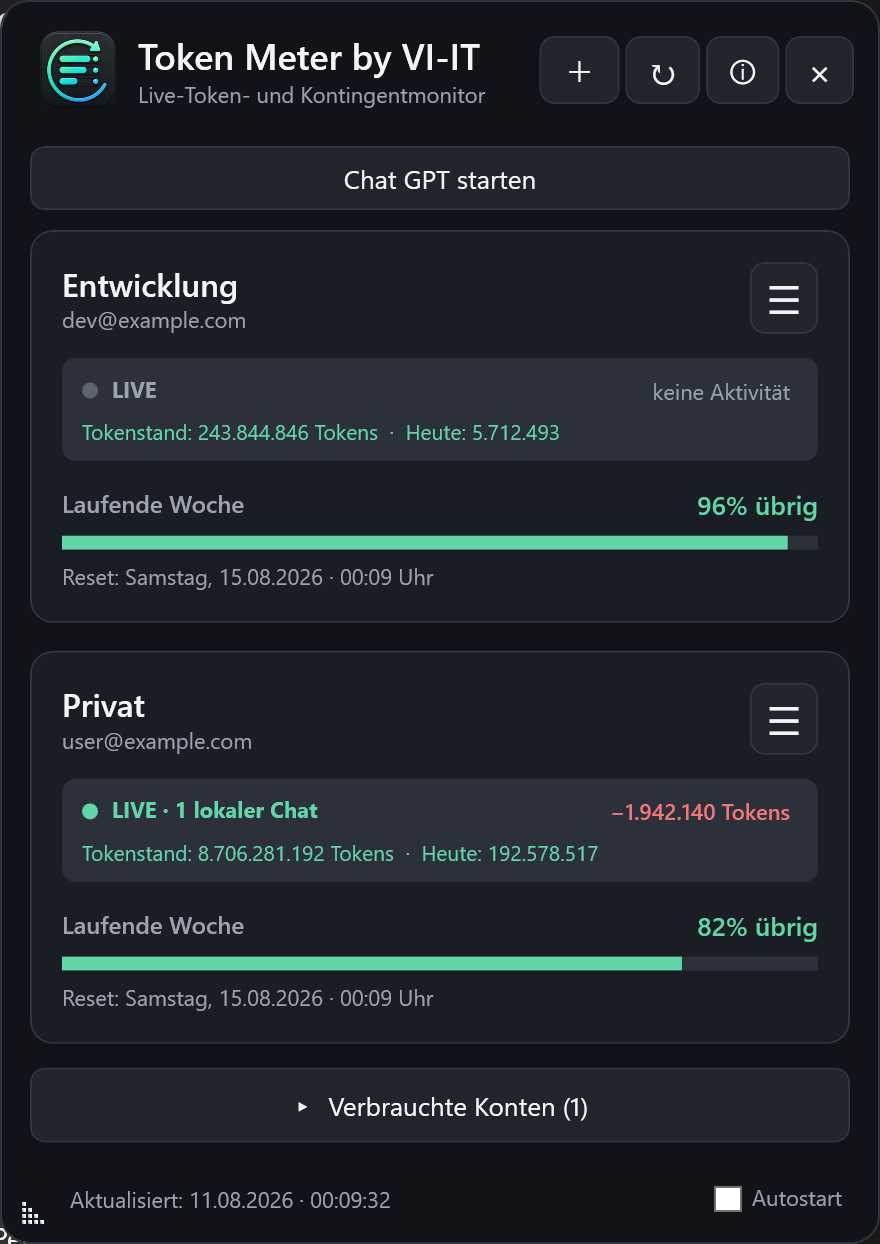
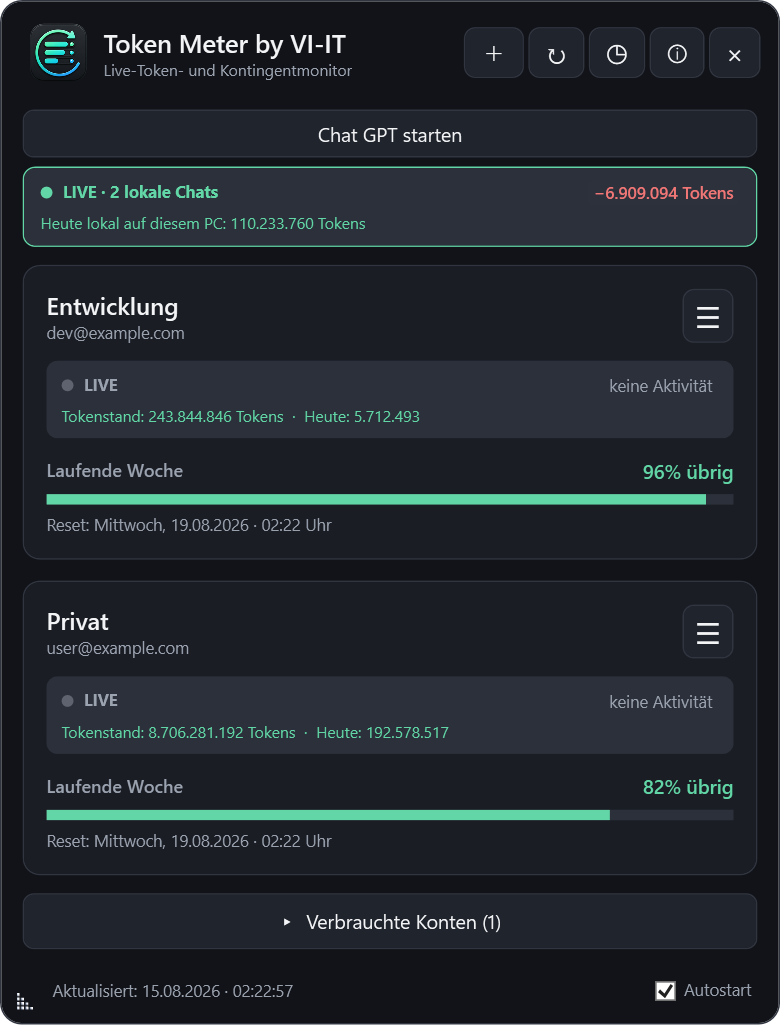
Publish Token Meter 1.0.9 live activity fix

diff --git a/docs/index.html b/docs/index.html
@@ -24,7 +24,7 @@
     "name": "Token Meter by VI-IT",
     "applicationCategory": "DeveloperApplication",
     "operatingSystem": "Windows 10, Windows 11",
-    "softwareVersion": "1.0.8",
+    "softwareVersion": "1.0.9",
     "description": "Persistent Windows alerts and history for Codex quota resets, with weekly quota, compact account monitor, taskbar progress, token totals and multi-account monitoring.",
     "featureList": "Persistent Codex reset alerts, reset history, compact quota monitor, Windows taskbar progress, weekly quota monitoring, account token totals, multiple ChatGPT accounts",
     "downloadUrl": "https://github.com/VI-IT/Token-Meter/releases/latest/download/Token-Meter-by-VI-IT-Setup.exe",
@@ -45,7 +45,7 @@
     <section id="english" class="wrap hero">
       <p><strong>Windows desktop widget</strong></p>
       <h1>Get alerted when Codex resets globally.</h1>
-      <p>Receive automatic Windows notifications for newly reported global Codex usage resets. Then monitor weekly quota, token totals and live local activity across multiple ChatGPT accounts.</p>
+      <p>Receive automatic Windows notifications for newly reported global Codex usage resets. Then monitor weekly quota, token totals and the real active-chat count in a dedicated local LIVE row.</p>
       <a class="button" href="https://github.com/VI-IT/Token-Meter/releases/latest/download/Token-Meter-by-VI-IT-Setup.exe">Download for Windows</a>
       <a class="button alt" href="#deutsch">Deutsche Anleitung</a>
       <img class="shot" src="assets/token-meter-live-en.png" alt="English Token Meter interface showing anonymized accounts and live local Codex activity">
@@ -72,7 +72,7 @@
 
     <section id="deutsch" class="wrap section" lang="de">
       <h2>Deutsche Anleitung</h2>
-      <p>Token Meter by VI-IT meldet neu veröffentlichte globale Codex-Kontingentresets automatisch per Windows-Mitteilung. Zusätzlich zeigt es für mehrere ChatGPT-/OpenAI-Konten Wochenkontingent, Tokenstände und lokale Codex-Liveaktivität.</p>
+      <p>Token Meter by VI-IT meldet neu veröffentlichte globale Codex-Kontingentresets automatisch per Windows-Mitteilung. Zusätzlich zeigt es Wochenkontingent, Tokenstände und die echte Zahl aktiver Chats in einer eigenen lokalen LIVE-Zeile.</p>
       <img class="shot" src="assets/token-meter-live-de.png" alt="Deutsche Token-Meter-Oberfläche mit anonymisierten Konten und lokaler Codex-Liveaktivität">
       <div class="grid">
         <article class="card"><h3>Dauerhafte Reset-Meldungen</h3><p class="muted">Unterscheidet Ankündigungen, einzelne Konto-Resets und globale Bestätigungen. Hinweise bleiben bis zur Bestätigung sichtbar und werden im Verlauf gespeichert.</p></article>

diff --git a/README.md b/README.md
@@ -42,7 +42,7 @@ Token Meter checks the public Codex Reset Timeline directly every two minutes. N
 - Compare remaining Codex weekly quota and exact reset time
 - See token totals and consumption changes reported for each account
 - See the current daily value from the account service, with a clearly marked local minimum while that value is delayed
-- See how many Codex chats are actively processing on this Windows PC
+- See how many Codex chats are actively processing in a dedicated local LIVE row on this Windows PC
 - Automatically rank accounts with the most remaining capacity first
 - Keep depleted accounts collapsed until you need them
 - Receive a one-time Windows notification on the exact 11% → 10% transition
@@ -60,7 +60,9 @@ Token Meter checks the public Codex Reset Timeline directly every two minutes. N
 
 ### How it works
 
-Each account is authenticated separately through the OpenAI/Codex sign-in flow. Quota and account token totals are requested for the linked account. The green LIVE indicator and active-chat count are derived from Codex session files on the Windows PC where Token Meter is running.
+Each account is authenticated separately through the OpenAI/Codex sign-in flow. Quota and account token totals are requested for the linked account. A dedicated local LIVE row derives the active-chat count from Codex session files on the Windows PC where Token Meter is running.
+
+Several ChatGPT workspaces can legitimately use the same e-mail address. Token Meter therefore keeps desktop LIVE activity in its own local row instead of assigning it to the first matching account card. This prevents active chats from disappearing inside a depleted or collapsed workspace while keeping account quota and token totals correctly separated.
 
 The account service can publish the current daily-usage bucket later than the lifetime total. Until that bucket arrives, Token Meter shows `Today: awaiting API` or, when local Codex activity is available, a clearly marked local minimum. The local minimum covers this PC only; the server value can later include usage from other devices.
 
@@ -91,7 +93,7 @@ Read the complete [privacy information](PRIVACY.md) and [security policy](SECURI
 3. Start Token Meter and select **+** to add an account.
 4. Complete the official OpenAI sign-in in your browser.
 
-When a newer GitHub release is available, Token Meter downloads and installs it automatically when the app starts. Version 1.0.8 shows the download percentage and transferred megabytes. A complete cached installer is verified against GitHub's SHA-256 digest instead of being downloaded again. An independent temporary update worker waits for Token Meter to exit, runs the installer, waits for completion and explicitly restarts the installed application. Diagnostics are written to `update-worker.log` and `update-install.log` in the temporary Token Meter update folder.
+When a newer GitHub release is available, Token Meter downloads and installs it automatically when the app starts. Version 1.0.9 shows the download percentage and transferred megabytes. A complete cached installer is verified against GitHub's SHA-256 digest instead of being downloaded again. An independent temporary update worker waits for Token Meter to exit, runs the installer, waits for completion and explicitly restarts the installed application. Diagnostics are written to `update-worker.log` and `update-install.log` in the temporary Token Meter update folder.
 
 ### Support development
 
@@ -133,7 +135,7 @@ Token Meter prüft alle zwei Minuten direkt die öffentliche Codex Reset Timelin
 - Verbleibendes Codex-Wochenkontingent und genaue Reset-Zeit vergleichen
 - Kontobezogene Tokenstände und Verbrauchsänderungen anzeigen
 - Aktuellen Tageswert des Kontodienstes sehen; bei Verzögerung mit klar gekennzeichnetem lokalen Mindestwert
-- Anzeigen, wie viele Codex-Chats auf diesem Windows-PC gerade verarbeitet werden
+- In einer eigenen lokalen LIVE-Zeile anzeigen, wie viele Codex-Chats auf diesem Windows-PC gerade verarbeitet werden
 - Konten mit dem größten verbleibenden Kontingent automatisch nach oben sortieren
 - Verbrauchte Konten platzsparend einklappen
 - Einmalige Windows-Warnung ausschließlich beim exakten Übergang von 11 % auf 10 %
@@ -151,7 +153,9 @@ Token Meter prüft alle zwei Minuten direkt die öffentliche Codex Reset Timelin
 
 ### Funktionsweise
 
-Jedes Konto wird getrennt über den OpenAI-/Codex-Anmeldeablauf authentifiziert. Kontingent und kontobezogene Tokenstände werden für das verknüpfte Konto abgefragt. Die grüne LIVE-Anzeige und die Zahl aktiver Chats werden dagegen aus Codex-Sitzungsdateien auf genau dem Windows-PC ermittelt, auf dem Token Meter läuft.
+Jedes Konto wird getrennt über den OpenAI-/Codex-Anmeldeablauf authentifiziert. Kontingent und kontobezogene Tokenstände werden für das verknüpfte Konto abgefragt. Eine eigene lokale LIVE-Zeile ermittelt die Zahl aktiver Chats dagegen aus Codex-Sitzungsdateien auf genau dem Windows-PC, auf dem Token Meter läuft.
+
+Mehrere ChatGPT-Arbeitsbereiche können berechtigt dieselbe E-Mail-Adresse verwenden. Token Meter hält die Desktop-LIVE-Aktivität deshalb in einer eigenen lokalen Zeile, statt sie blind der ersten passenden Kontokarte zuzuordnen. So verschwinden aktive Chats nicht mehr in einem verbrauchten oder eingeklappten Arbeitsbereich, während Kontingent und Tokenstände weiterhin korrekt getrennt bleiben.
 
 Der Kontodienst kann den aktuellen Tages-Bucket später bereitstellen als den gesamten Tokenstand. Bis dahin zeigt Token Meter `Heute: API ausstehend` oder – falls lokale Codex-Aktivität vorhanden ist – einen klar gekennzeichneten lokalen Mindestwert. Dieser Mindestwert umfasst nur diesen PC; der spätere Serverwert kann auch Nutzung anderer Geräte enthalten.
 
@@ -182,7 +186,7 @@ Lies die vollständigen [Datenschutzinformationen](PRIVACY.md) und die [Sicherhe
 3. Token Meter starten und über **+** ein Konto hinzufügen.
 4. Die offizielle OpenAI-Anmeldung im Browser abschließen.
 
-Wenn ein neueres GitHub-Release verfügbar ist, lädt Token Meter es beim Programmstart automatisch herunter und installiert es. Version 1.0.8 zeigt dabei Prozent und übertragene Megabyte. Ein vollständiger zwischengespeicherter Installer wird anhand der GitHub-SHA-256-Prüfsumme geprüft und nicht erneut heruntergeladen. Ein unabhängiger temporärer Update-Wächter wartet auf das Programmende, führt den Installer aus, wartet auf dessen Abschluss und startet die installierte Anwendung ausdrücklich neu. Diagnosen stehen als `update-worker.log` und `update-install.log` im temporären Token-Meter-Updateordner.
+Wenn ein neueres GitHub-Release verfügbar ist, lädt Token Meter es beim Programmstart automatisch herunter und installiert es. Version 1.0.9 zeigt dabei Prozent und übertragene Megabyte. Ein vollständiger zwischengespeicherter Installer wird anhand der GitHub-SHA-256-Prüfsumme geprüft und nicht erneut heruntergeladen. Ein unabhängiger temporärer Update-Wächter wartet auf das Programmende, führt den Installer aus, wartet auf dessen Abschluss und startet die installierte Anwendung ausdrücklich neu. Diagnosen stehen als `update-worker.log` und `update-install.log` im temporären Token-Meter-Updateordner.
 
 ### Entwicklung unterstützen
 

diff --git a/RELEASE_NOTES.md b/RELEASE_NOTES.md
@@ -1,41 +1,35 @@
-# Token Meter by VI-IT 1.0.8
+# Token Meter by VI-IT 1.0.9
 
 ## English
 
-Critical fixes for false refill alerts and opaque automatic updates.
+Fixes missing or wrongly assigned local LIVE activity when several ChatGPT workspaces share the same e-mail address.
 
-- A quota-refill alert now requires an actual increase in remaining weekly capacity
-- An unchanged 100% value can no longer generate a refill or reset event
-- Stabilizes reset timestamps that incorrectly move forward on every refresh
-- Automatically removes repeated rolling 100% events created by version 1.0.7 from reset history
-- The **Dismiss** button now remains effective because no replacement event is generated one minute later
-- Shows update download percentage and transferred megabytes inside the app
-- Extends the update download timeout from 5 to 30 minutes for slower connections
-- Reads the release-asset SHA-256 digest from GitHub and reuses a complete verified cached installer
-- Uses an independent temporary update worker that waits for the app, runs the installer and explicitly restarts Token Meter
-- Manual and legacy automatic installations start the application without the unreliable `runasoriginaluser` handoff
-- Writes separate worker and installer diagnostic logs
-- Accounts, authentication profiles, quota values and settings remain unchanged
+- Adds a dedicated local LIVE row directly below the central ChatGPT button
+- Shows the real number of currently active local Codex chats independently of account-card visibility
+- Stops assigning all desktop activity to the first linked workspace with the same e-mail address
+- Prevents active local sessions from disappearing inside a depleted or collapsed account
+- Keeps per-account quota and server-reported token totals separate from PC-local chat activity
+- Shows local token consumption in red and flashes when the value changes
+- Keeps the exact turn lifecycle: LIVE starts with the Codex turn and ends on completion
+- Updates the English and German screenshots to the current interface
+- Preserves all existing accounts, authentication profiles, settings and quota history during the update
 
 ## Deutsch
 
-Wichtige Korrekturen für falsche Auffüllmeldungen und undurchsichtige automatische Updates.
+Behebt fehlende oder falsch zugeordnete lokale LIVE-Aktivität, wenn mehrere ChatGPT-Arbeitsbereiche dieselbe E-Mail-Adresse verwenden.
 
-- Eine Auffüllmeldung erfordert jetzt einen tatsächlichen Anstieg des verbleibenden Wochenkontingents
-- Ein unveränderter Wert von 100 % kann keine Auffüll- oder Reset-Meldung mehr erzeugen
-- Reset-Termine, die bei jeder Aktualisierung fälschlich weiterwandern, werden stabilisiert
-- Von Version 1.0.7 erzeugte Serien gleicher 100-%-Meldungen werden automatisch aus dem Reset-Verlauf entfernt
-- **Gesehen** bleibt wirksam, weil nicht eine Minute später ein neuer Ersatzeintrag entsteht
-- Zeigt Download-Prozent und übertragene Megabyte direkt im Programm
-- Verlängert das Download-Zeitlimit für langsamere Verbindungen von 5 auf 30 Minuten
-- Liest die SHA-256-Prüfsumme des Release-Assets von GitHub und verwendet einen vollständig geprüften Cache weiter
-- Verwendet einen unabhängigen temporären Update-Wächter, der auf das Programmende wartet, den Installer ausführt und Token Meter ausdrücklich neu startet
-- Manuelle und ältere automatische Installationen starten die Anwendung ohne die unzuverlässige `runasoriginaluser`-Übergabe
-- Schreibt getrennte Diagnoseprotokolle für Update-Wächter und Installer
-- Konten, Anmeldeprofile, Kontingentwerte und Einstellungen bleiben unverändert
+- Fügt direkt unter dem zentralen ChatGPT-Knopf eine eigene lokale LIVE-Zeile ein
+- Zeigt die echte Zahl aktuell laufender lokaler Codex-Chats unabhängig von der Sichtbarkeit einzelner Kontokarten
+- Ordnet Desktop-Aktivität nicht mehr blind dem ersten verknüpften Arbeitsbereich mit gleicher E-Mail-Adresse zu
+- Verhindert, dass aktive lokale Sitzungen in einem verbrauchten oder eingeklappten Konto verschwinden
+- Hält kontobezogenes Kontingent und serverseitige Tokenstände getrennt von der PC-lokalen Chataktivität
+- Zeigt lokalen Tokenverbrauch rot und lässt die Zahl bei Änderungen kurz aufleuchten
+- Behält den echten Turn-Zustand bei: LIVE beginnt mit dem Codex-Turn und endet erst beim Abschluss
+- Aktualisiert die englischen und deutschen Screenshots auf die aktuelle Oberfläche
+- Behält beim Update alle bestehenden Konten, Anmeldeprofile, Einstellungen und den Kontingentverlauf bei
 
 ## Verification / Prüfung
 
 `Token-Meter-by-VI-IT-Setup.exe`
 
[2 lines of base64/hex data omitted]
